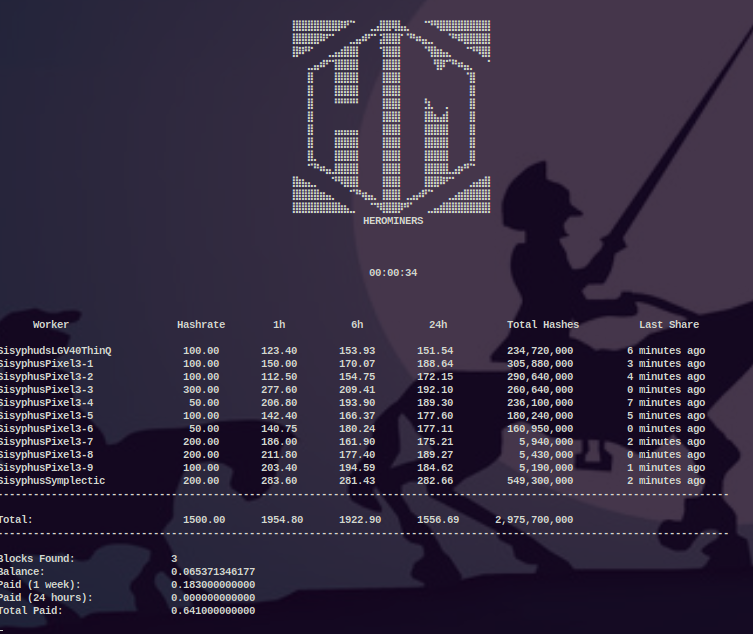
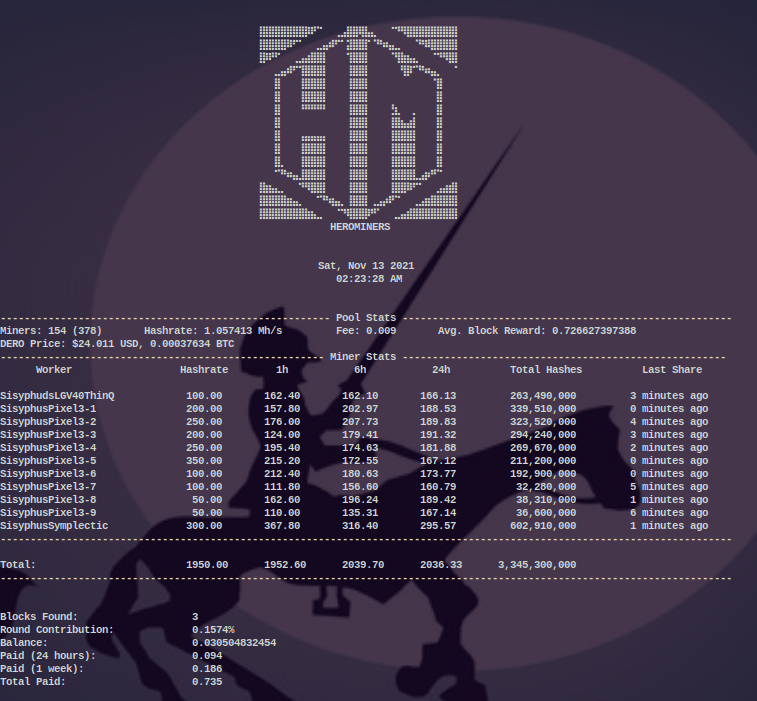
Exception handling, new API 411. Better formatting

diff --git a/herostatus.py b/herostatus.py
@@ -22,14 +22,14 @@ alarms = ['sounds/burglaralarm.wav',
           'sounds/sirenalarm.wav',
           'sounds/strongbadalarm.wav']
 
-dero_satoshi = 1000000000000
+satoshi = 100000000000
 
 def herominers_logo():
     with open('logo.uni') as logoFile:
         logo = logoFile.readlines()
     for line in logo:
-        print(48*space,line, end='')
-    print(60*space, "HEROMINERS")
+        print(42*space,line, end='')
+    print(54*space, "HEROMINERS")
     
     
 def play_alarm(alarm):
@@ -60,6 +60,29 @@ def startup_procedure():
         json_file.close()
         return configs
 
+def ComputeHashrate(lnphr, pool_hashrate):
+    
+    if lnphr <= 3:
+        pool_hashrate = str(pool_hashrate) + " H/s"
+    elif lnphr  > 3 and lnphr <= 6:
+        pool_hashrate = str(float(int(pool_hashrate) / 1000)) + " Kh/s"
+    elif lnphr >=7 and lnphr <= 9: 
+        pool_hashrate = str(float(int(pool_hashrate) / 1000000)) + " Mh/s"
+    else:
+        pool_hashrate = str(float(int(pool_hashrate) / 1000000000)) + " Gh/s"
+        
+    return pool_hashrate
+
+def PrintFooter(longestHeader, ft, fd):
+    
+    print("\n")
+    
+    for text,data in zip(ft,fd):
+        num_of_spaces = len(longestHeader) - len(text) + 11
+        print("%s %s %s" % (text, num_of_spaces*space,data))
+                      
+
+
 def main():
     
     parser = argparse.ArgumentParser(description="Herominers Crypto Status and Alarm Notifier")
@@ -87,24 +110,54 @@ def main():
     
     configs = startup_procedure()
     api_url = "https://%s.herominers.com/api/stats_address?address=%s" % (configs['crypto'], configs['address'])
+    live_stats_url = "https://%s.herominers.com/api/live_stats?address=%s" % (configs['crypto'], configs['address'])
     wait_time = int(configs["refresh"])  
     
     while True:
         #now = datetime.now()
         epoch_time = time()
         now = datetime.fromtimestamp(int(epoch_time))
-        now = now.strftime("%H:%M:%S")
+        now_date = now.strftime("%a, %b %d %Y")
+        now_time = now.strftime("%I:%M:%S %p")
         system('cls||clear')
         print("\n")
         herominers_logo()
-        print("\n\n")
-        print(61*space, now)
-        print("\n\n")
-        print(5*space,"Worker",16*space,"Hashrate", 6*space, "1h", 9*space,"6h", 9*space, "24h", 8*space,"Total Hashes", 8*space, "Last Share\n")
+        print("\n")
+        print(52*space, now_date, "\n",54*space,now_time)
+        print("\n")
         try: 
             req = requests.get(api_url)
+            req_live_stats = requests.get(live_stats_url)
             json = req.json()
+            live_stats_json = req_live_stats.json()
             
+            satoshi = float(live_stats_json['config']['coinUnits'])
+            fee = float(float(live_stats_json['config']['transferFee']) / satoshi)
+            
+            no_of_miners = live_stats_json['pool']['miners']
+            no_of_workers = live_stats_json['pool']['workers']
+            pool_hashrate = live_stats_json['pool']['hashrate']
+            pool_roundscore = live_stats_json['pool']['roundScore']
+            miner_roundscore = live_stats_json['miner']['roundScore']
+            avgBlockReward = float(live_stats_json['pool']['averageReward']) / satoshi
+            cryptoPriceUSD = round(float(live_stats_json['pool']['price']['usd']),3)
+            cryptoPriceBTC = round(float(live_stats_json['pool']['price']['btc']),8)
+            
+            lnphr = len(str(pool_hashrate))
+            
+            pool_hashrate = ComputeHashrate(lnphr, pool_hashrate)
+            roundContribution = str(round(100*(float(miner_roundscore) / float(pool_roundscore)),4)) + '%'
+
+            print(dash*55, "Pool Stats", dash*55)
+            print("Miners: %s (%s)\tHashrate: %s\t\tFee: %s\t Avg. Block Reward: %s" % (no_of_miners, no_of_workers, pool_hashrate, fee, avgBlockReward))
+            print("%s Price: $%s USD, %s BTC" % (configs['crypto'].upper(), cryptoPriceUSD, cryptoPriceBTC))  
+            print(dash*54, "Miner Stats", dash*54)
+            
+            
+            
+    
+            print(5*space,"Worker",16*space,"Hashrate", 6*space, "1h", 9*space,"6h", 9*space, "24h", 8*space,"Total Hashes", 8*space, "Last Share\n")
+
             Workers = json['workers']
             
             WorkersByName = {}
@@ -161,10 +214,10 @@ def main():
             dayhr_hr = json['stats']['hashrate_24h']
             total_hashes = json['stats']['hashes']
             blocks_found = json['stats']['blocksFound']
-            balance = round(float(float(json['stats']['balance']) / dero_satoshi),13)
-            paid = round(float(float(json['stats']['paid']) / dero_satoshi),13)
-            payment_7d = round(float(float(json['stats']['payments_7d']) / dero_satoshi),132)
-            payment_24hr = round(float(float(json['stats']['payments_24h']) / dero_satoshi), 13)
+            balance = round(float(float(json['stats']['balance']) / satoshi),13)
+            paid = round(float(float(json['stats']['paid']) / satoshi),13)
+            payment_7d = round(float(float(json['stats']['payments_7d']) / satoshi),13)
+            payment_24hr = round(float(float(json['stats']['payments_24h']) / satoshi), 13)
             
             
             num_of_spaces = maxlen - len('Total:') + 10
@@ -181,20 +234,15 @@ def main():
                                                                            "{:,}".format(int(total_hashes))))
             
             print(dash*122)
-            text = 'Blocks Found:'
-            num_of_spaces = len('Paid (24 hours):') - len(text) + 11                    
-            print("\nBlocks Found: %s %s" % (num_of_spaces*space,blocks_found))
-            text = 'Balance:'
-            num_of_spaces = len('Paid (24 hours):') - len(text) + 10                
-            print("Balance: %s %15.12f" % (num_of_spaces*space,balance))
-            text = 'Paid (1 week):'
-            num_of_spaces = len('Paid (24 hours):') - len(text) + 10
-            print("Paid (1 week): %s %15.12f" % (num_of_spaces*space,payment_7d))
-            num_of_spaces = 10
-            print("Paid (24 hours): %s %15.12f" % (num_of_spaces*space,payment_24hr))
-            text = 'Total Paid:'
-            num_of_spaces = len('Paid (24 hours):') - len(text) + 10
-            print("Total Paid: %s %15.12f" % (num_of_spaces*space,paid))
+            longestHeader = "Round Contribution:"
+            footerText = ['Blocks Found:', longestHeader, 'Balance:',
+                          'Paid (24 hours):','Paid (1 week):','Total Paid:',
+                          ]
+            footerData = [blocks_found, roundContribution, balance,
+                          payment_24hr, payment_7d,  paid]
+            
+            PrintFooter(longestHeader, footerText,footerData) 
+             
         except Exception as e:
             print(str(e))
             print("CONNECTION ERROR... Retrying in %s(s)" % wait_time)
